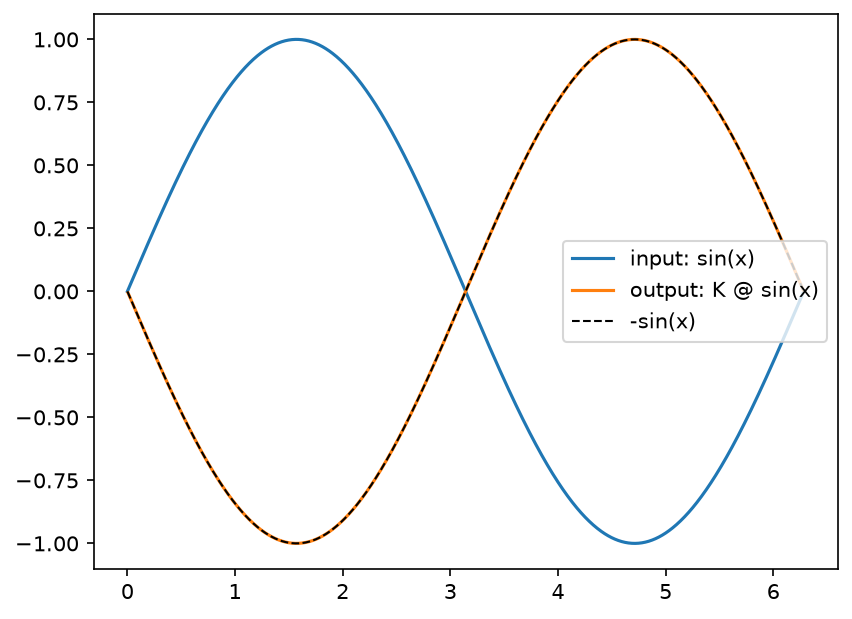
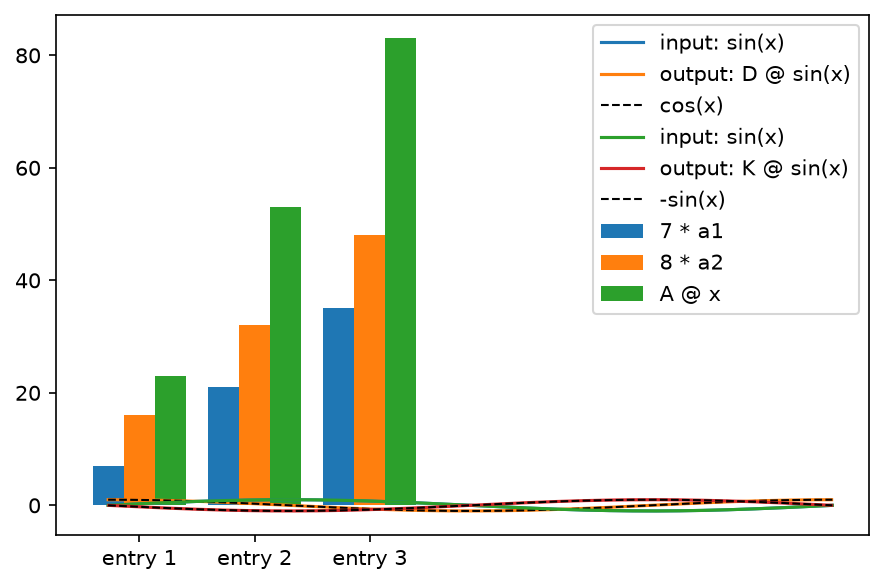
v9 tranche 1: fix grid/input name collision (Listings 2.6-2.7 use xx, grid x survives to the composition); notebook-canonical figures synced
Claude-Session: https://claude.ai/code/session_01QHVo4KzARxbxqYrtrErhpz

diff --git a/chapter_drafts/clae-chapter-02/2-matrices-and-linear-transformations.md b/chapter_drafts/clae-chapter-02/2-matrices-and-linear-transformations.md
@@ -224,10 +224,10 @@ Listing 2.6 checks both against NumPy's `@` on the worked example.
 
 ```python
 A = np.array([[1, 2], [3, 4], [5, 6]])
-x = np.array([7, 8])
-print('A @ x      :', A @ x)
-print('row view   :', by_rows(A, x))
-print('column view:', by_cols(A, x))
+xx = np.array([7, 8])
+print('A @ x      :', A @ xx)
+print('row view   :', by_rows(A, xx))
+print('column view:', by_cols(A, xx))
 ```
 
 ```text
@@ -248,7 +248,7 @@ The column view also draws. Listing 2.7 charts the two scaled columns and their 
 a1, a2 = A[:, 0], A[:, 1]
 pos = np.arange(3)
 parts = [('7 * a1', 7 * a1), ('8 * a2', 8 * a2),
-         ('A @ x', A @ x)]
+         ('A @ x', A @ xx)]
 for k, (name, vec) in enumerate(parts):
     plt.bar(pos + 0.27 * k, vec, width=0.27, label=name)
 plt.xticks(pos + 0.27, ['entry 1', 'entry 2', 'entry 3'])